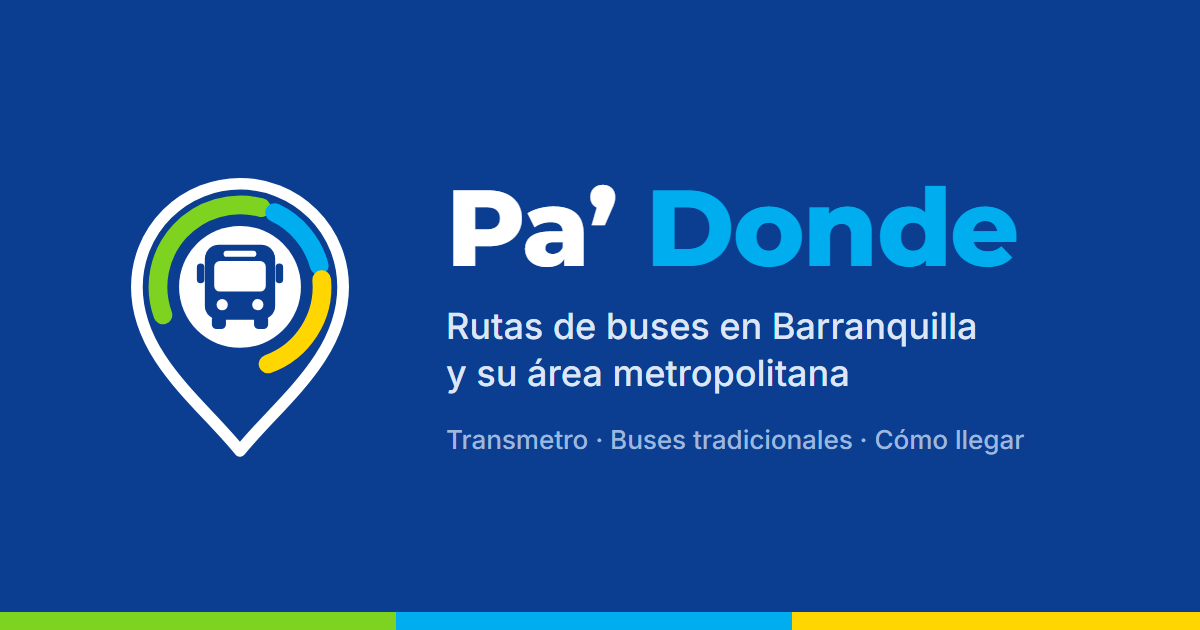
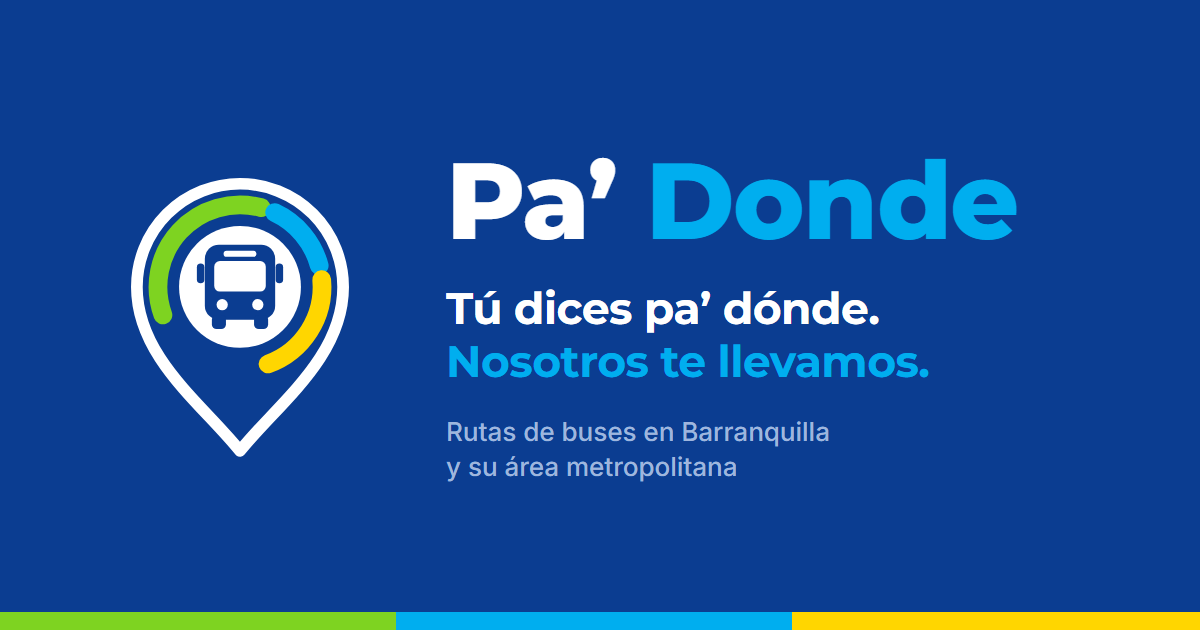
Agrega el eslogan: bienvenida, pantalla de carga y vista previa

Changed region(s): [[0.37, 0.2413, 0.8633, 0.4222], [0.37, 0.4524, 0.8325, 0.6333], [0.37, 0.6635, 0.8633, 0.754]]

diff --git a/styles.css b/styles.css
@@ -88,6 +88,58 @@ body {
   background: linear-gradient(90deg, var(--green) 0 33%, var(--sky) 33% 66%, var(--yellow) 66%);
 }
 
+/* Eslogan, en dos tonos como el nombre: "Tú dices pa’ dónde. / Nosotros te llevamos." */
+.slogan { margin: 0; font: 700 18px/1.3 Montserrat, sans-serif; color: var(--wordmark-1); text-wrap: balance; }
+.slogan span { color: var(--wordmark-2); }
+
+/* ---------- Pantalla de carga ---------- */
+
+.splash {
+  position: fixed;
+  inset: 0;
+  z-index: 2000;
+  display: flex;
+  flex-direction: column;
+  align-items: center;
+  justify-content: center;
+  gap: 10px;
+  padding: 24px;
+  text-align: center;
+  background: var(--bg);
+  transition: opacity 0.35s, visibility 0.35s;
+  /* Si algo falla al cargar, la pantalla no se queda tapando la app para siempre. */
+  animation: splash-out 0.35s 15s forwards;
+}
+.splash.done { opacity: 0; visibility: hidden; }
+.splash img { width: 96px; height: 96px; margin-bottom: 4px; }
+.splash .wordmark { font-size: 34px; }
+.splash .slogan { margin-top: 6px; font-size: 19px; }
+/* Barra de carga con los colores de la marca, que va y viene. */
+.splash-bar {
+  position: relative;
+  width: 140px;
+  height: 4px;
+  margin-top: 22px;
+  overflow: hidden;
+  background: var(--border);
+  border-radius: 2px;
+}
+.splash-bar::after {
+  content: "";
+  position: absolute;
+  inset: 0 auto 0 0;
+  width: 60%;
+  background: linear-gradient(90deg, var(--green) 0 33%, var(--sky) 33% 66%, var(--yellow) 66%);
+  border-radius: 2px;
+  animation: splash-bar 1.1s ease-in-out infinite alternate;
+}
+@keyframes splash-bar { from { transform: translateX(-100%); } to { transform: translateX(167%); } }
+@keyframes splash-out { to { opacity: 0; visibility: hidden; } }
+@media (prefers-reduced-motion: reduce) {
+  .splash { transition: none; }
+  .splash-bar::after { width: 100%; animation: none; }
+}
+
 /* ---------- Lista ---------- */
 
 .status { margin: 12px 16px 0; padding: 8px 10px; border-radius: 10px; background: var(--hover); }
@@ -409,13 +461,22 @@ body {
   background: color-mix(in srgb, var(--sky) 15%, transparent);
   border-radius: 50%;
 }
-.guide p { color: var(--muted); line-height: 1.5; }
+.guide p { color: var(--muted); line-height: 1.5; text-wrap: pretty; }
 .guide-dots { display: flex; justify-content: center; gap: 6px; margin-top: 18px; }
 .guide-dots span { width: 8px; height: 8px; background: var(--border); border-radius: 4px; transition: width 0.2s; }
 .guide-dots .on { width: 22px; background: var(--sky); }
 .guide .dialog-actions { justify-content: space-between; }
 .guide .dialog-actions .primary:only-child { margin: 0 auto; }
 @media (prefers-reduced-motion: reduce) { .guide-dots span { transition: none; } }
+/* Portada de la guía: logo, eslogan y la franja de colores arriba. */
+.guide-strip {
+  height: 6px;
+  margin: -22px -20px 22px;
+  background: linear-gradient(90deg, var(--green) 0 33%, var(--sky) 33% 66%, var(--yellow) 66%);
+  border-radius: 16px 16px 0 0;
+}
+.guide-logo { display: block; width: 84px; height: 84px; margin: 0 auto 12px; }
+.guide h2.slogan { margin-bottom: 10px; font-size: 22px; line-height: 1.25; }
 
 /* Botón "Instalar": flota en la esquina superior derecha, sobre el mapa (solo aparece
    cuando el navegador permite instalar la app) */

diff --git a/app.js b/app.js
@@ -287,6 +287,11 @@ function setStatus(kind, html) {
   els.status.innerHTML = html;
 }
 
+// Quita la pantalla de carga (con el logo y el eslogan) cuando la app está lista o si falla.
+function hideSplash() {
+  $('#splash').classList.add('done');
+}
+
 // ---------- Datos ----------
 
 async function loadData() {
@@ -300,6 +305,7 @@ async function loadData() {
   if (files.length === 0) {
     setStatus('error', `No se pudieron leer los datos de rutas. Genéralos con
       <code>python scripts/descargar_rutas.py</code> y <code>python scripts/descargar_rutas_amb.py</code>.`);
+    hideSplash();
     return;
   }
 
@@ -355,6 +361,7 @@ async function loadData() {
   renderAbout(files);
   renderList();
   applyHash();
+  hideSplash();
   maybeShowGuide();
 
   // Lugares para el buscador (no es indispensable: sin el archivo quedan estaciones y paradas).
@@ -1612,7 +1619,7 @@ reportDialog.addEventListener('click', (e) => {
 
 const guide = $('#guide');
 const GUIDE_KEY = 'padonde:guia-vista';
-const GUIDE_VERSION = '2';
+const GUIDE_VERSION = '3';
 const guideIcon = (svg) => svg.replace('class="fav-icon"', 'class="guide-icon"');
 const GUIDE_STEPS = [
   {
@@ -1637,7 +1644,25 @@ const GUIDE_STEPS = [
   },
 ];
 
-function openGuide(step = 0) {
+// Portada antes de los pasos: el logo y el eslogan.
+function guideCoverHtml() {
+  return `
+    <div class="guide-strip" aria-hidden="true"></div>
+    <img class="guide-logo" src="assets/icono.svg" alt="" width="84" height="84">
+    <h2 id="guide-title" class="slogan">Tú dices pa’ dónde.<br><span>Nosotros te llevamos.</span></h2>
+    <p>Encuentra qué bus tomar en Barranquilla y su área metropolitana. Te mostramos cómo en ${GUIDE_STEPS.length} pasos.</p>
+    <div class="dialog-actions">
+      <button type="button" class="link-btn" data-guide="close">Saltar</button>
+      <button type="button" class="primary" data-guide="0">Ver cómo se usa</button>
+    </div>`;
+}
+
+function openGuide(step = 'portada') {
+  if (step === 'portada') {
+    guide.innerHTML = guideCoverHtml();
+    if (!guide.open) guide.showModal();
+    return;
+  }
   const s = GUIDE_STEPS[step];
   const last = step === GUIDE_STEPS.length - 1;
   guide.innerHTML = `
@@ -1669,7 +1694,7 @@ guide.addEventListener('cancel', () => closeGuide()); // tecla Esc
 function maybeShowGuide() {
   let seen = false;
   try { seen = localStorage.getItem(GUIDE_KEY) === GUIDE_VERSION; } catch { seen = true; }
-  if (!seen && state.view === 'browse') openGuide(0);
+  if (!seen && state.view === 'browse') openGuide();
 }
 
 // ---------- Eventos ----------
@@ -1835,7 +1860,7 @@ els.search.addEventListener('focus', () => {
 });
 
 els.hint.addEventListener('click', (e) => {
-  if (e.target.closest('[data-action="open-guide"]')) openGuide(0);
+  if (e.target.closest('[data-action="open-guide"]')) openGuide();
 });
 
 els.near.addEventListener('click', (e) => {
@@ -1868,4 +1893,4 @@ if ('serviceWorker' in navigator && window.isSecureContext) {
   navigator.serviceWorker.register('sw.js').catch(() => {});
 }
 
-loadData();
+loadData().finally(hideSplash);

diff --git a/index.html b/index.html
@@ -4,7 +4,7 @@
   <meta charset="utf-8">
   <meta name="viewport" content="width=device-width, initial-scale=1">
   <title>Pa' Donde · Rutas de buses en Barranquilla y su área metropolitana</title>
-  <meta name="description" content="Muévete por Barranquilla y su área metropolitana sin perderte: rutas de Transmetro y buses tradicionales.">
+  <meta name="description" content="Tú dices pa’ dónde. Nosotros te llevamos. Rutas de Transmetro y buses tradicionales en Barranquilla y su área metropolitana: qué bus tomar, cuánto tardas y cuánto cuesta.">
   <meta name="theme-color" content="#0B3D91">
   <!-- Vista previa al compartir un enlace (WhatsApp, Facebook, X). La dirección del sitio la
        completa scripts/preparar_publicacion.py: las imágenes de vista previa necesitan URL completa. -->
@@ -12,7 +12,7 @@
   <meta property="og:locale" content="es_CO">
   <meta property="og:site_name" content="Pa' Donde">
   <meta property="og:title" content="Pa' Donde · Rutas de buses en Barranquilla">
-  <meta property="og:description" content="Transmetro y buses tradicionales: busca a dónde vas y mira qué bus tomar, cuánto tardas y cuánto cuesta.">
+  <meta property="og:description" content="Tú dices pa’ dónde. Nosotros te llevamos. Busca a dónde vas y mira qué bus tomar, cuánto tardas y cuánto cuesta.">
   <meta property="og:image" content="assets/og-image.png">
   <meta property="og:image:width" content="1200">
   <meta property="og:image:height" content="630">
@@ -32,6 +32,14 @@
   <link rel="stylesheet" href="styles.css">
 </head>
 <body>
+  <!-- Pantalla de carga: se ve apenas abre la app, mientras llegan el mapa y las rutas -->
+  <div id="splash" class="splash" role="status" aria-label="Cargando Pa’ Donde">
+    <img src="assets/icono.svg" alt="" width="96" height="96">
+    <p class="wordmark"><span>Pa’</span> Donde</p>
+    <p class="slogan">Tú dices pa’ dónde.<br><span>Nosotros te llevamos.</span></p>
+    <div class="splash-bar" aria-hidden="true"></div>
+  </div>
+
   <aside id="panel">
     <button id="sheet-handle" class="sheet-handle" type="button" aria-label="Agrandar o achicar la lista"></button>
     <header class="brand">

diff --git a/scripts/generar_iconos.py b/scripts/generar_iconos.py
@@ -32,24 +32,25 @@ ICONOS = [
 
 # Vista previa al compartir (1200 x 630, el tamaño que piden WhatsApp, Facebook y X).
 OG_HTML = """<!doctype html><meta charset="utf-8">
-<link rel="stylesheet" href="https://fonts.googleapis.com/css2?family=Inter:wght@500&family=Montserrat:wght@800&display=block">
+<link rel="stylesheet" href="https://fonts.googleapis.com/css2?family=Inter:wght@500&family=Montserrat:wght@700;800&display=block">
 <style>
   html, body {{ margin: 0; width: 1200px; height: 630px; overflow: hidden; }}
   body {{ display: flex; align-items: center; gap: 56px; padding: 0 90px; box-sizing: border-box;
          background: #0B3D91; color: #fff; font-family: Inter, "Segoe UI", sans-serif; position: relative; }}
   svg {{ width: 300px; height: 300px; flex: none; }}
   h1 {{ margin: 0; font: 800 108px/1 Montserrat, "Segoe UI", sans-serif; letter-spacing: -2px; }}
-  h1 span {{ color: #00AEEF; }}
-  p {{ margin: 22px 0 0; font-size: 36px; line-height: 1.3; color: #DCE6F7; }}
-  .sub {{ margin-top: 26px; font-size: 26px; color: #9FB6DD; }}
+  h1 span, .eslogan span {{ color: #00AEEF; }}
+  p {{ margin: 0; }}
+  .eslogan {{ margin-top: 28px; font: 700 44px/1.2 Montserrat, "Segoe UI", sans-serif; letter-spacing: -0.5px; }}
+  .sub {{ margin-top: 26px; font-size: 26px; line-height: 1.35; color: #9FB6DD; }}
   .franja {{ position: absolute; left: 0; right: 0; bottom: 0; height: 18px;
             background: linear-gradient(90deg, #7ED321 0 33%, #00AEEF 33% 66%, #FFD600 66%); }}
 </style>
 {svg}
 <div>
   <h1>Pa’ <span>Donde</span></h1>
-  <p>Rutas de buses en Barranquilla<br>y su área metropolitana</p>
-  <p class="sub">Transmetro · Buses tradicionales · Cómo llegar</p>
+  <p class="eslogan">Tú dices pa’ dónde.<br><span>Nosotros te llevamos.</span></p>
+  <p class="sub">Rutas de buses en Barranquilla<br>y su área metropolitana</p>
 </div>
 <div class="franja"></div>"""
 

diff --git a/README.md b/README.md
@@ -1,6 +1,9 @@
 # Pa' Donde
 
-Rutas de buses de Barranquilla sobre un mapa, con datos de OpenStreetMap.
+> Tú dices pa’ dónde. Nosotros te llevamos.
+
+Rutas de buses de Barranquilla y su área metropolitana sobre un mapa: Transmetro (datos de
+OpenStreetMap) y buses tradicionales (datos del AMB), con "Cómo llegar" y el valor del pasaje.
 
 ## Correr la app
 
